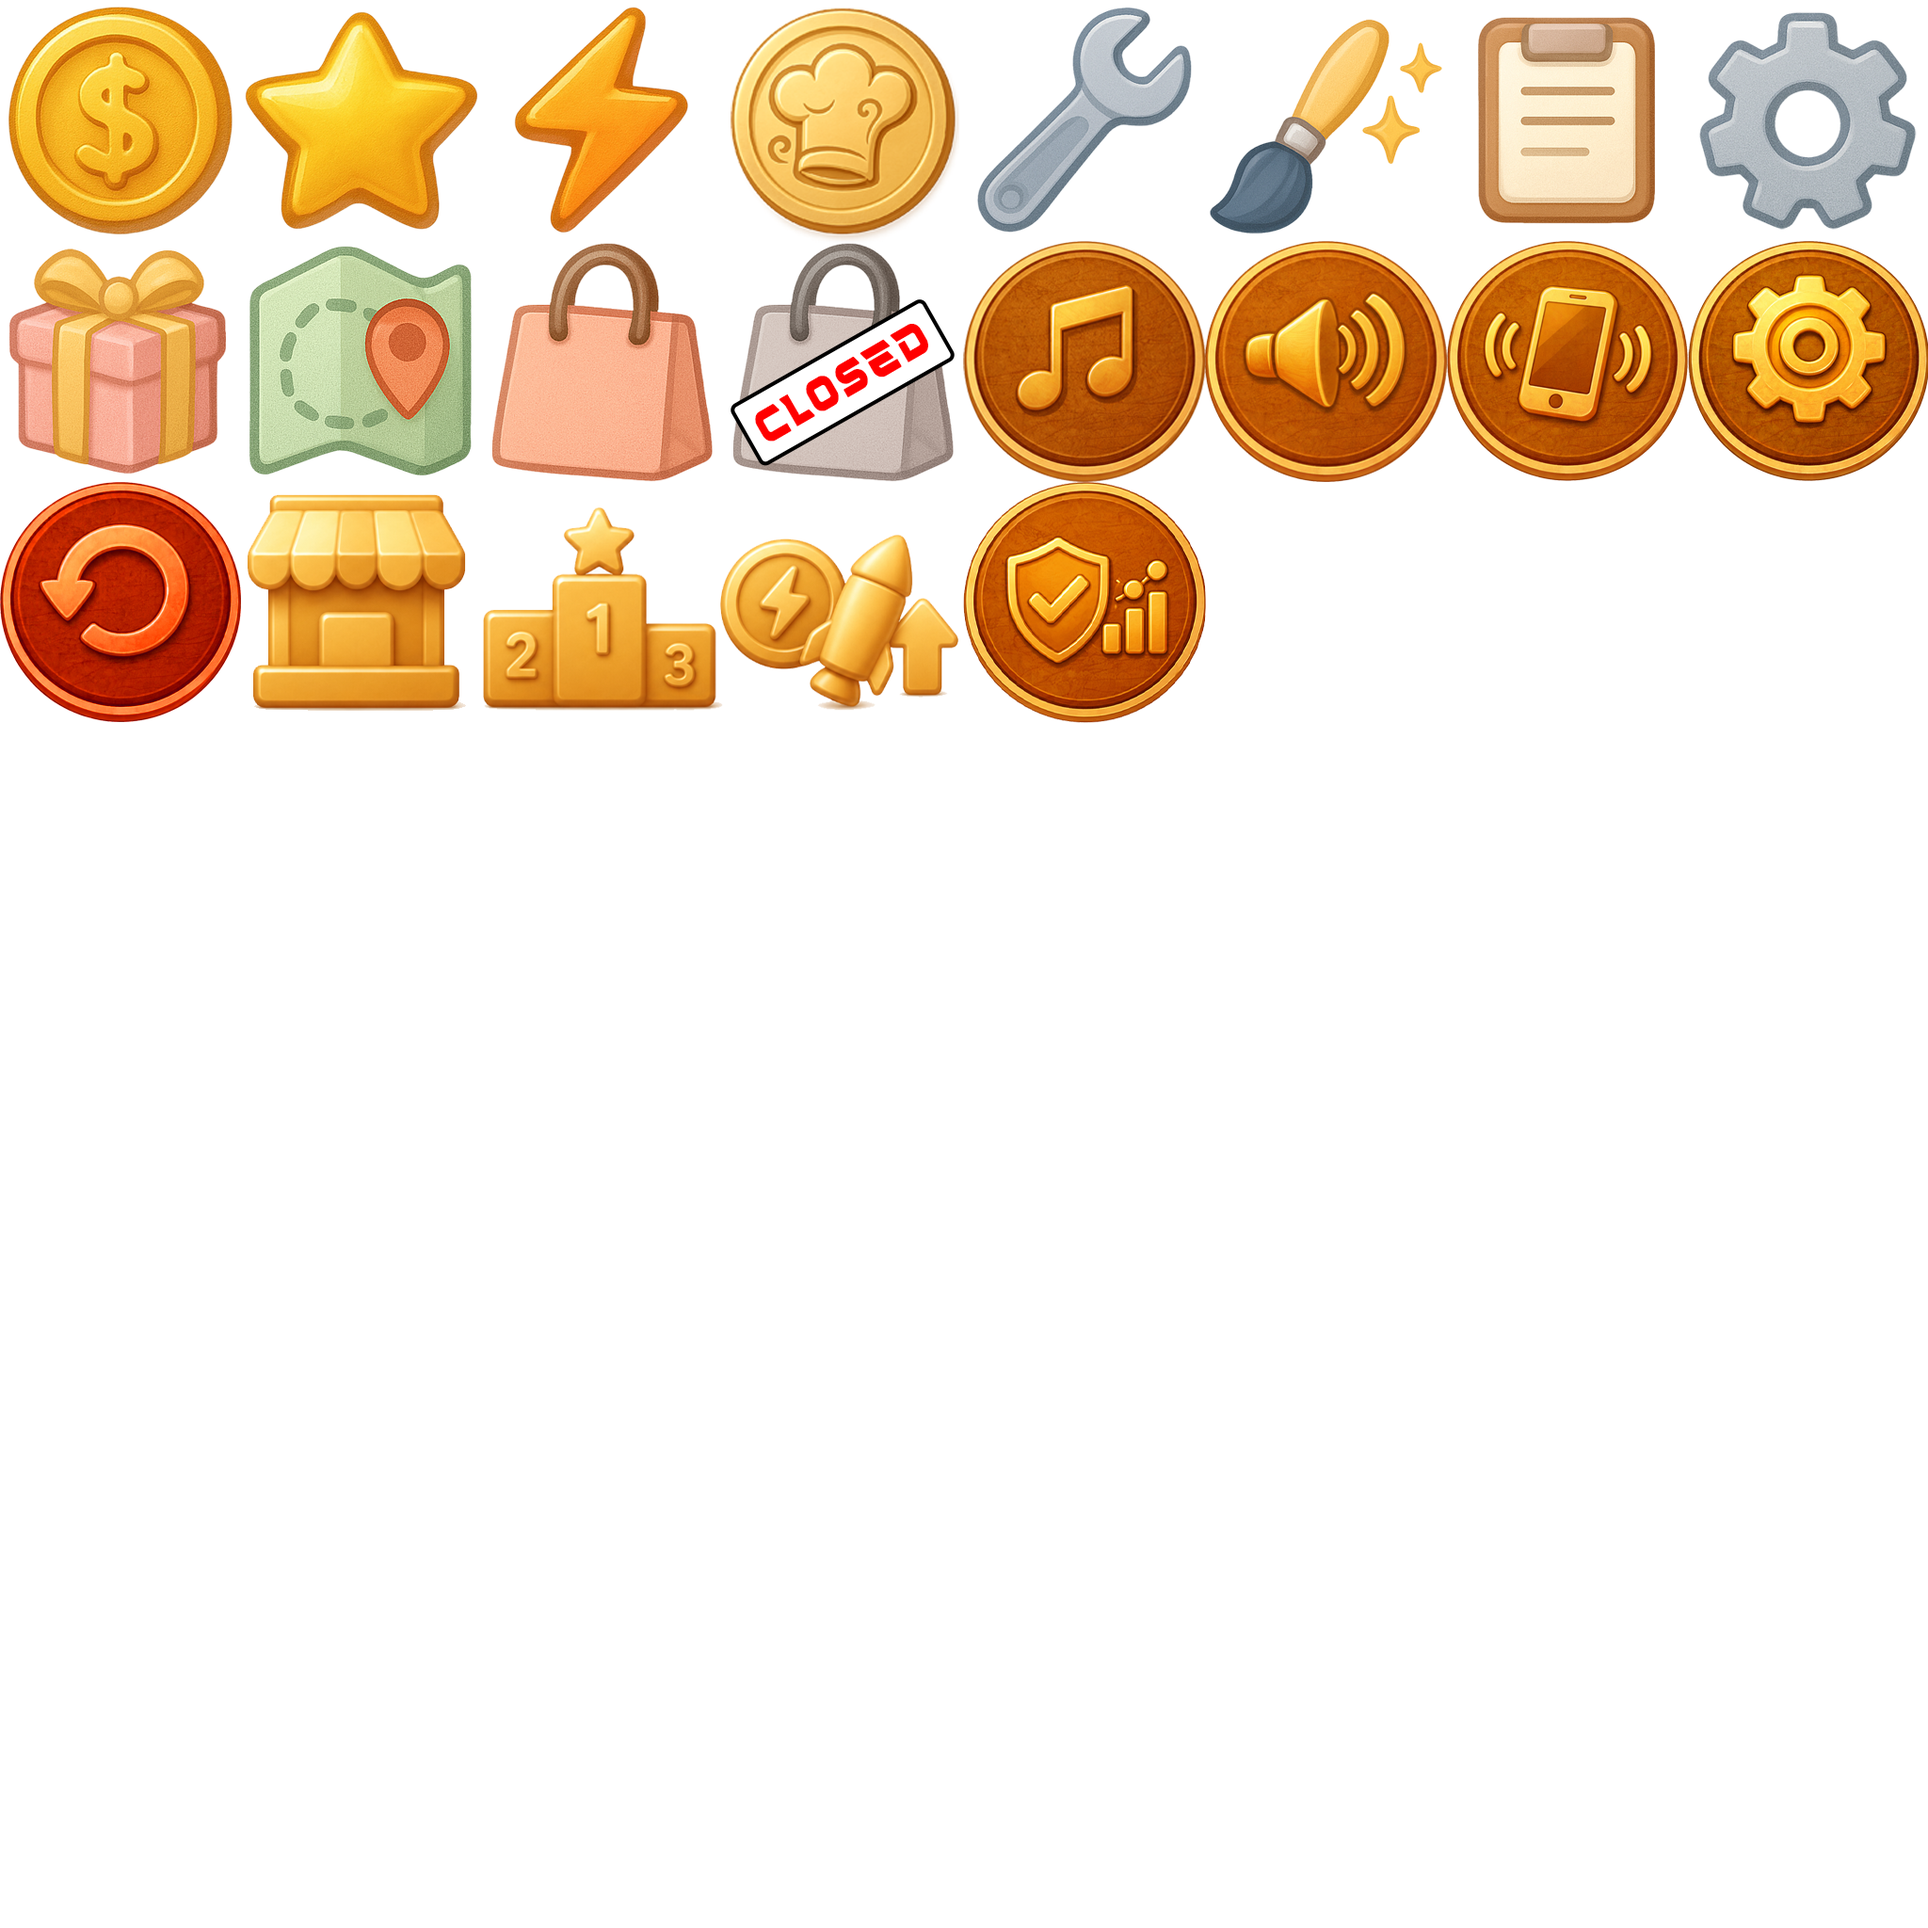
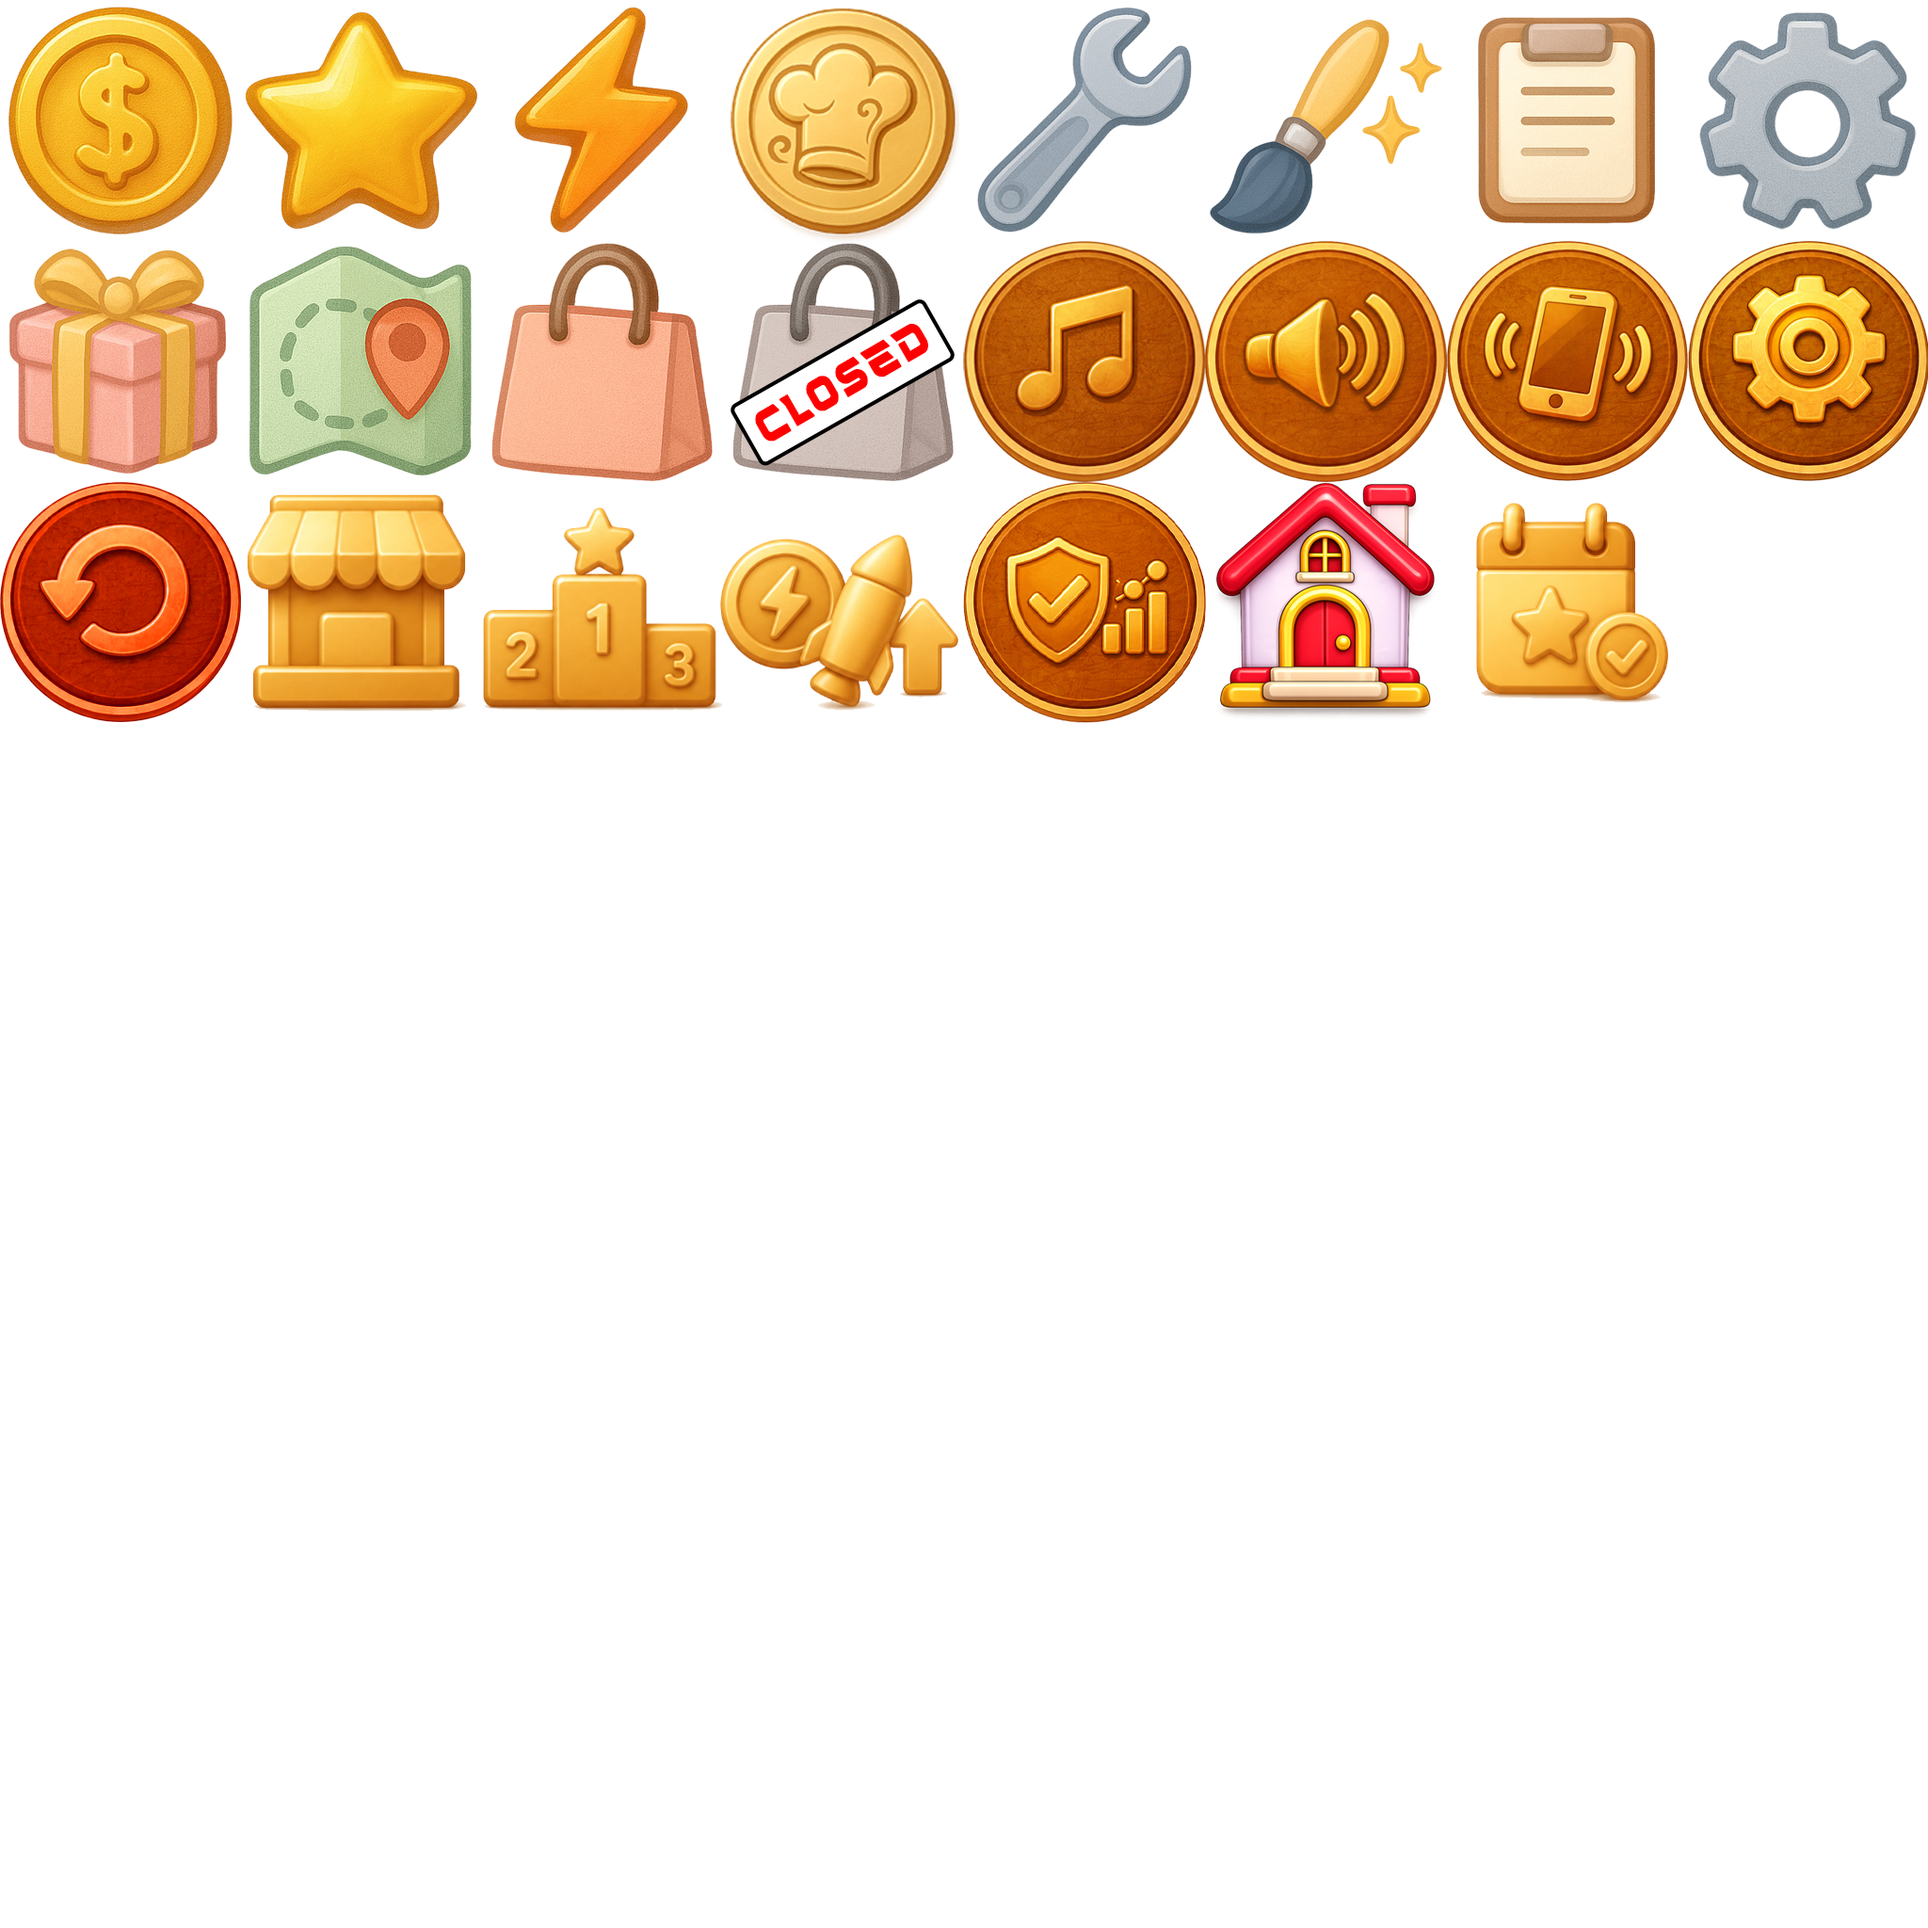
main menu panel changes

Changed region(s): [[0.625, 0.25, 0.875, 0.375]]

diff --git a/Assets/Scripts/Framework/Level Management/MainMenuPanel.cs b/Assets/Scripts/Framework/Level Management/MainMenuPanel.cs
@@ -8,6 +8,11 @@ namespace Game
         public override Screens ScreenID => Screens.MainMenu;
 
         [SerializeField] private Button currentLevelButton;
+        [SerializeField] private Button marketButton;
+        [SerializeField] private Button leaderboardButton;
+        [SerializeField] private Button homeButton;
+        [SerializeField] private Button missionsButton;
+        [SerializeField] private Button settingsButton;
         // Start is called once before the first execution of Update after the MonoBehaviour is created
         void Start()
         {
